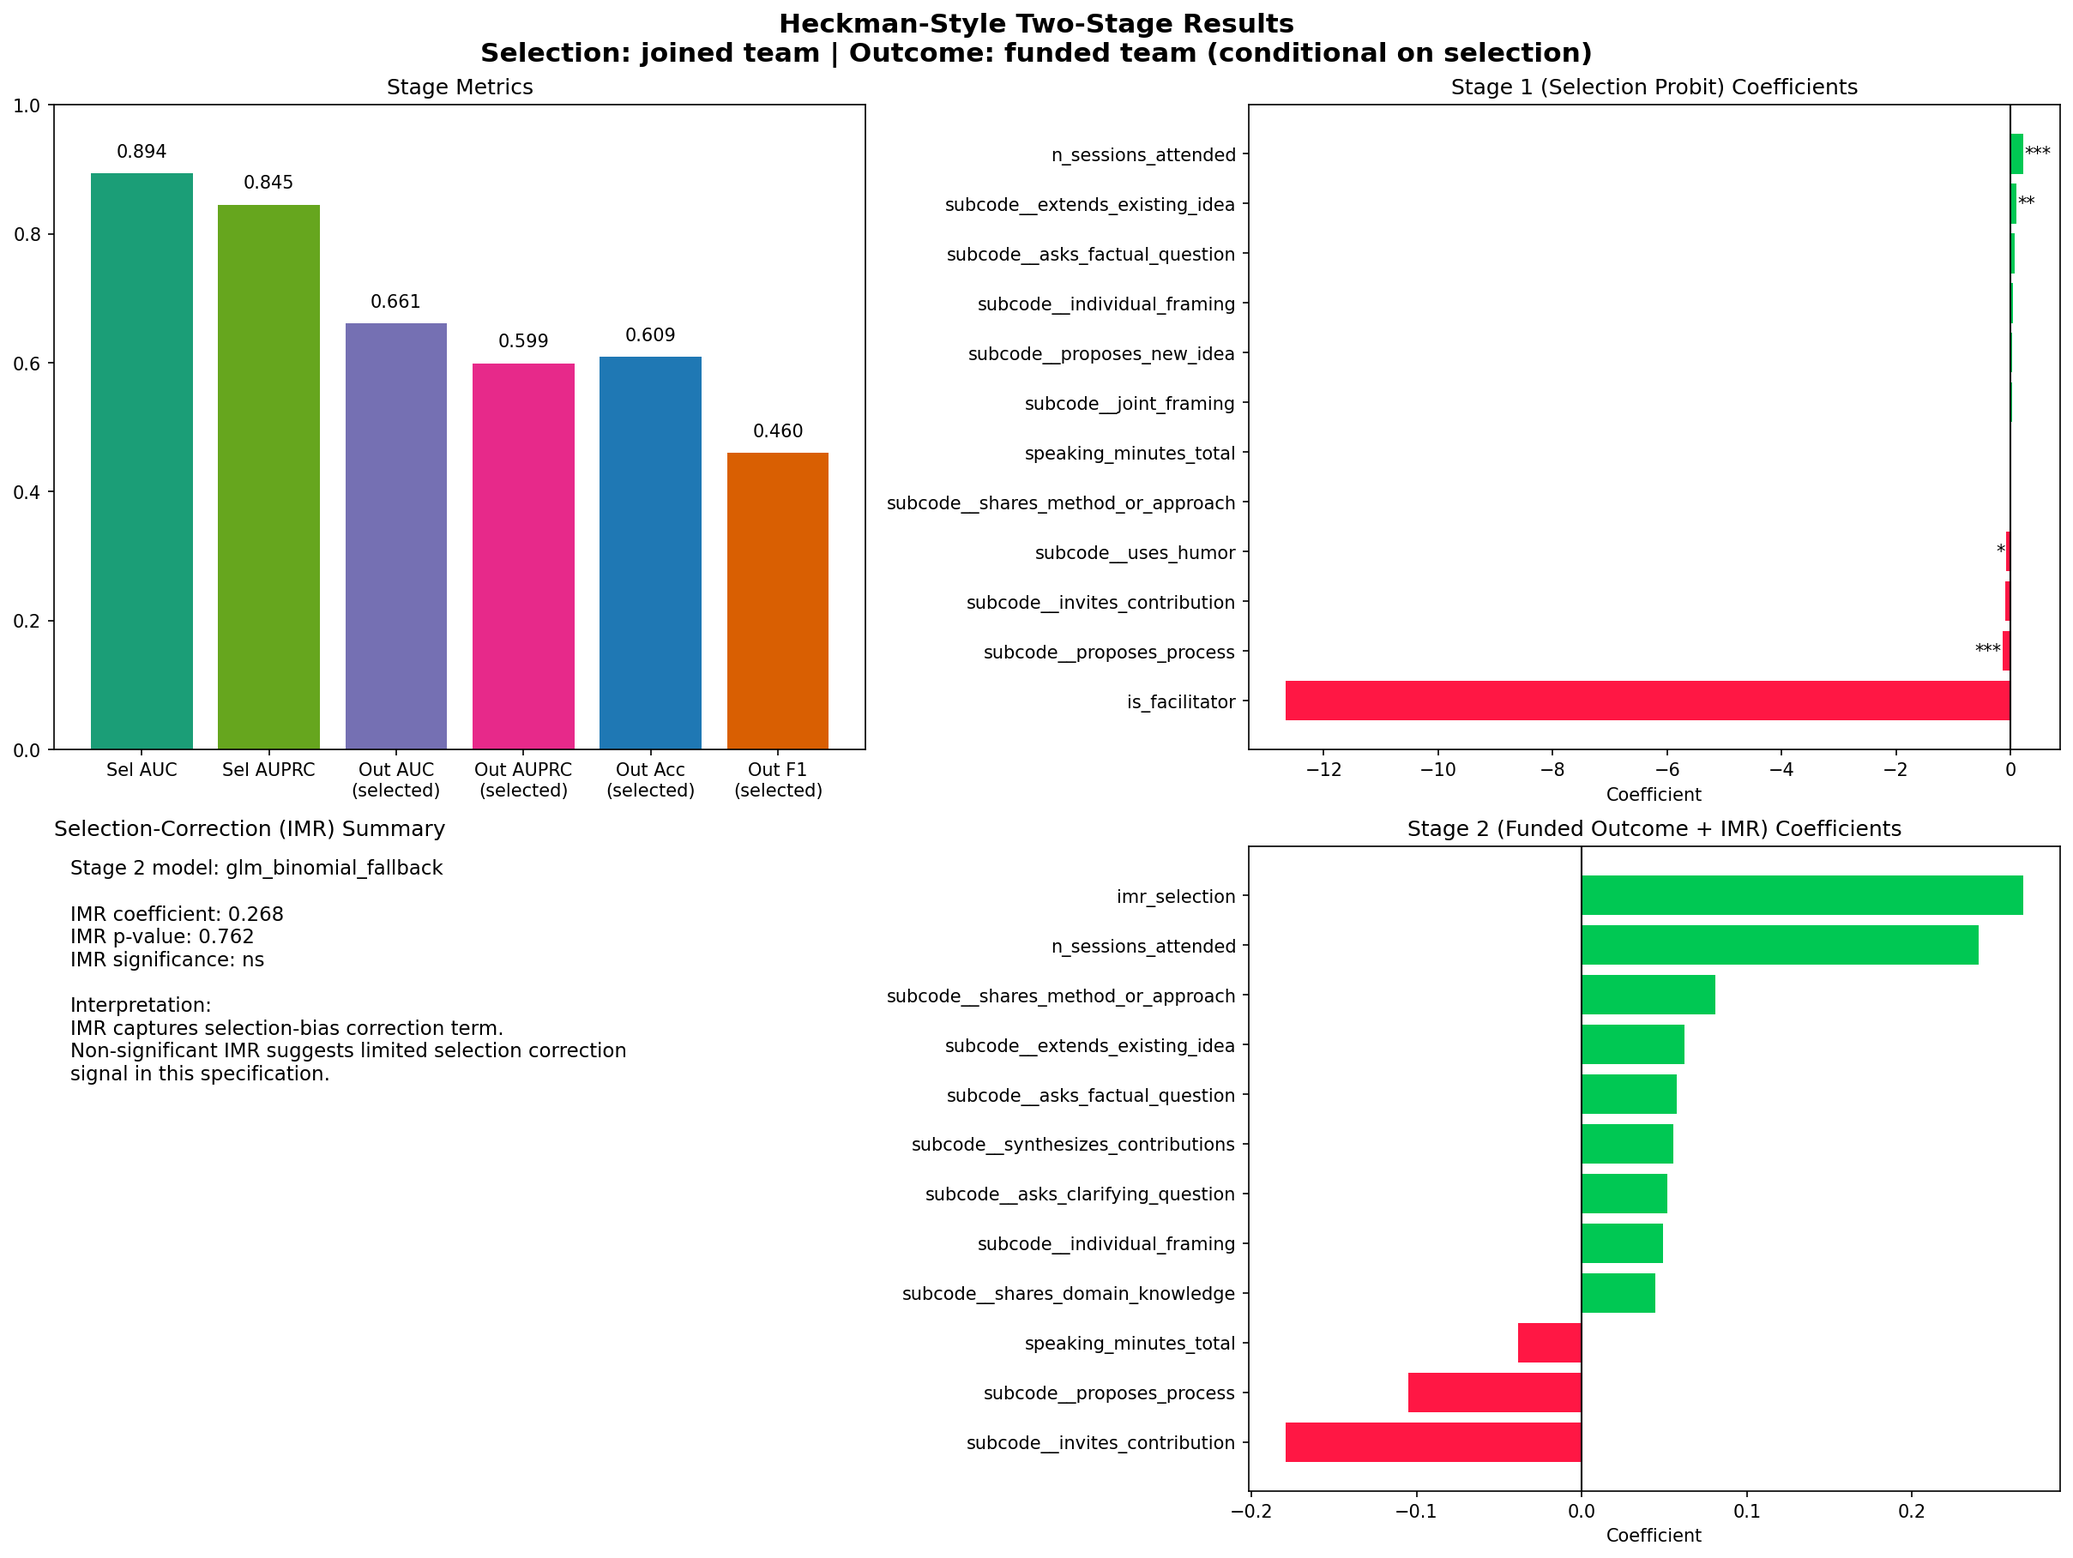
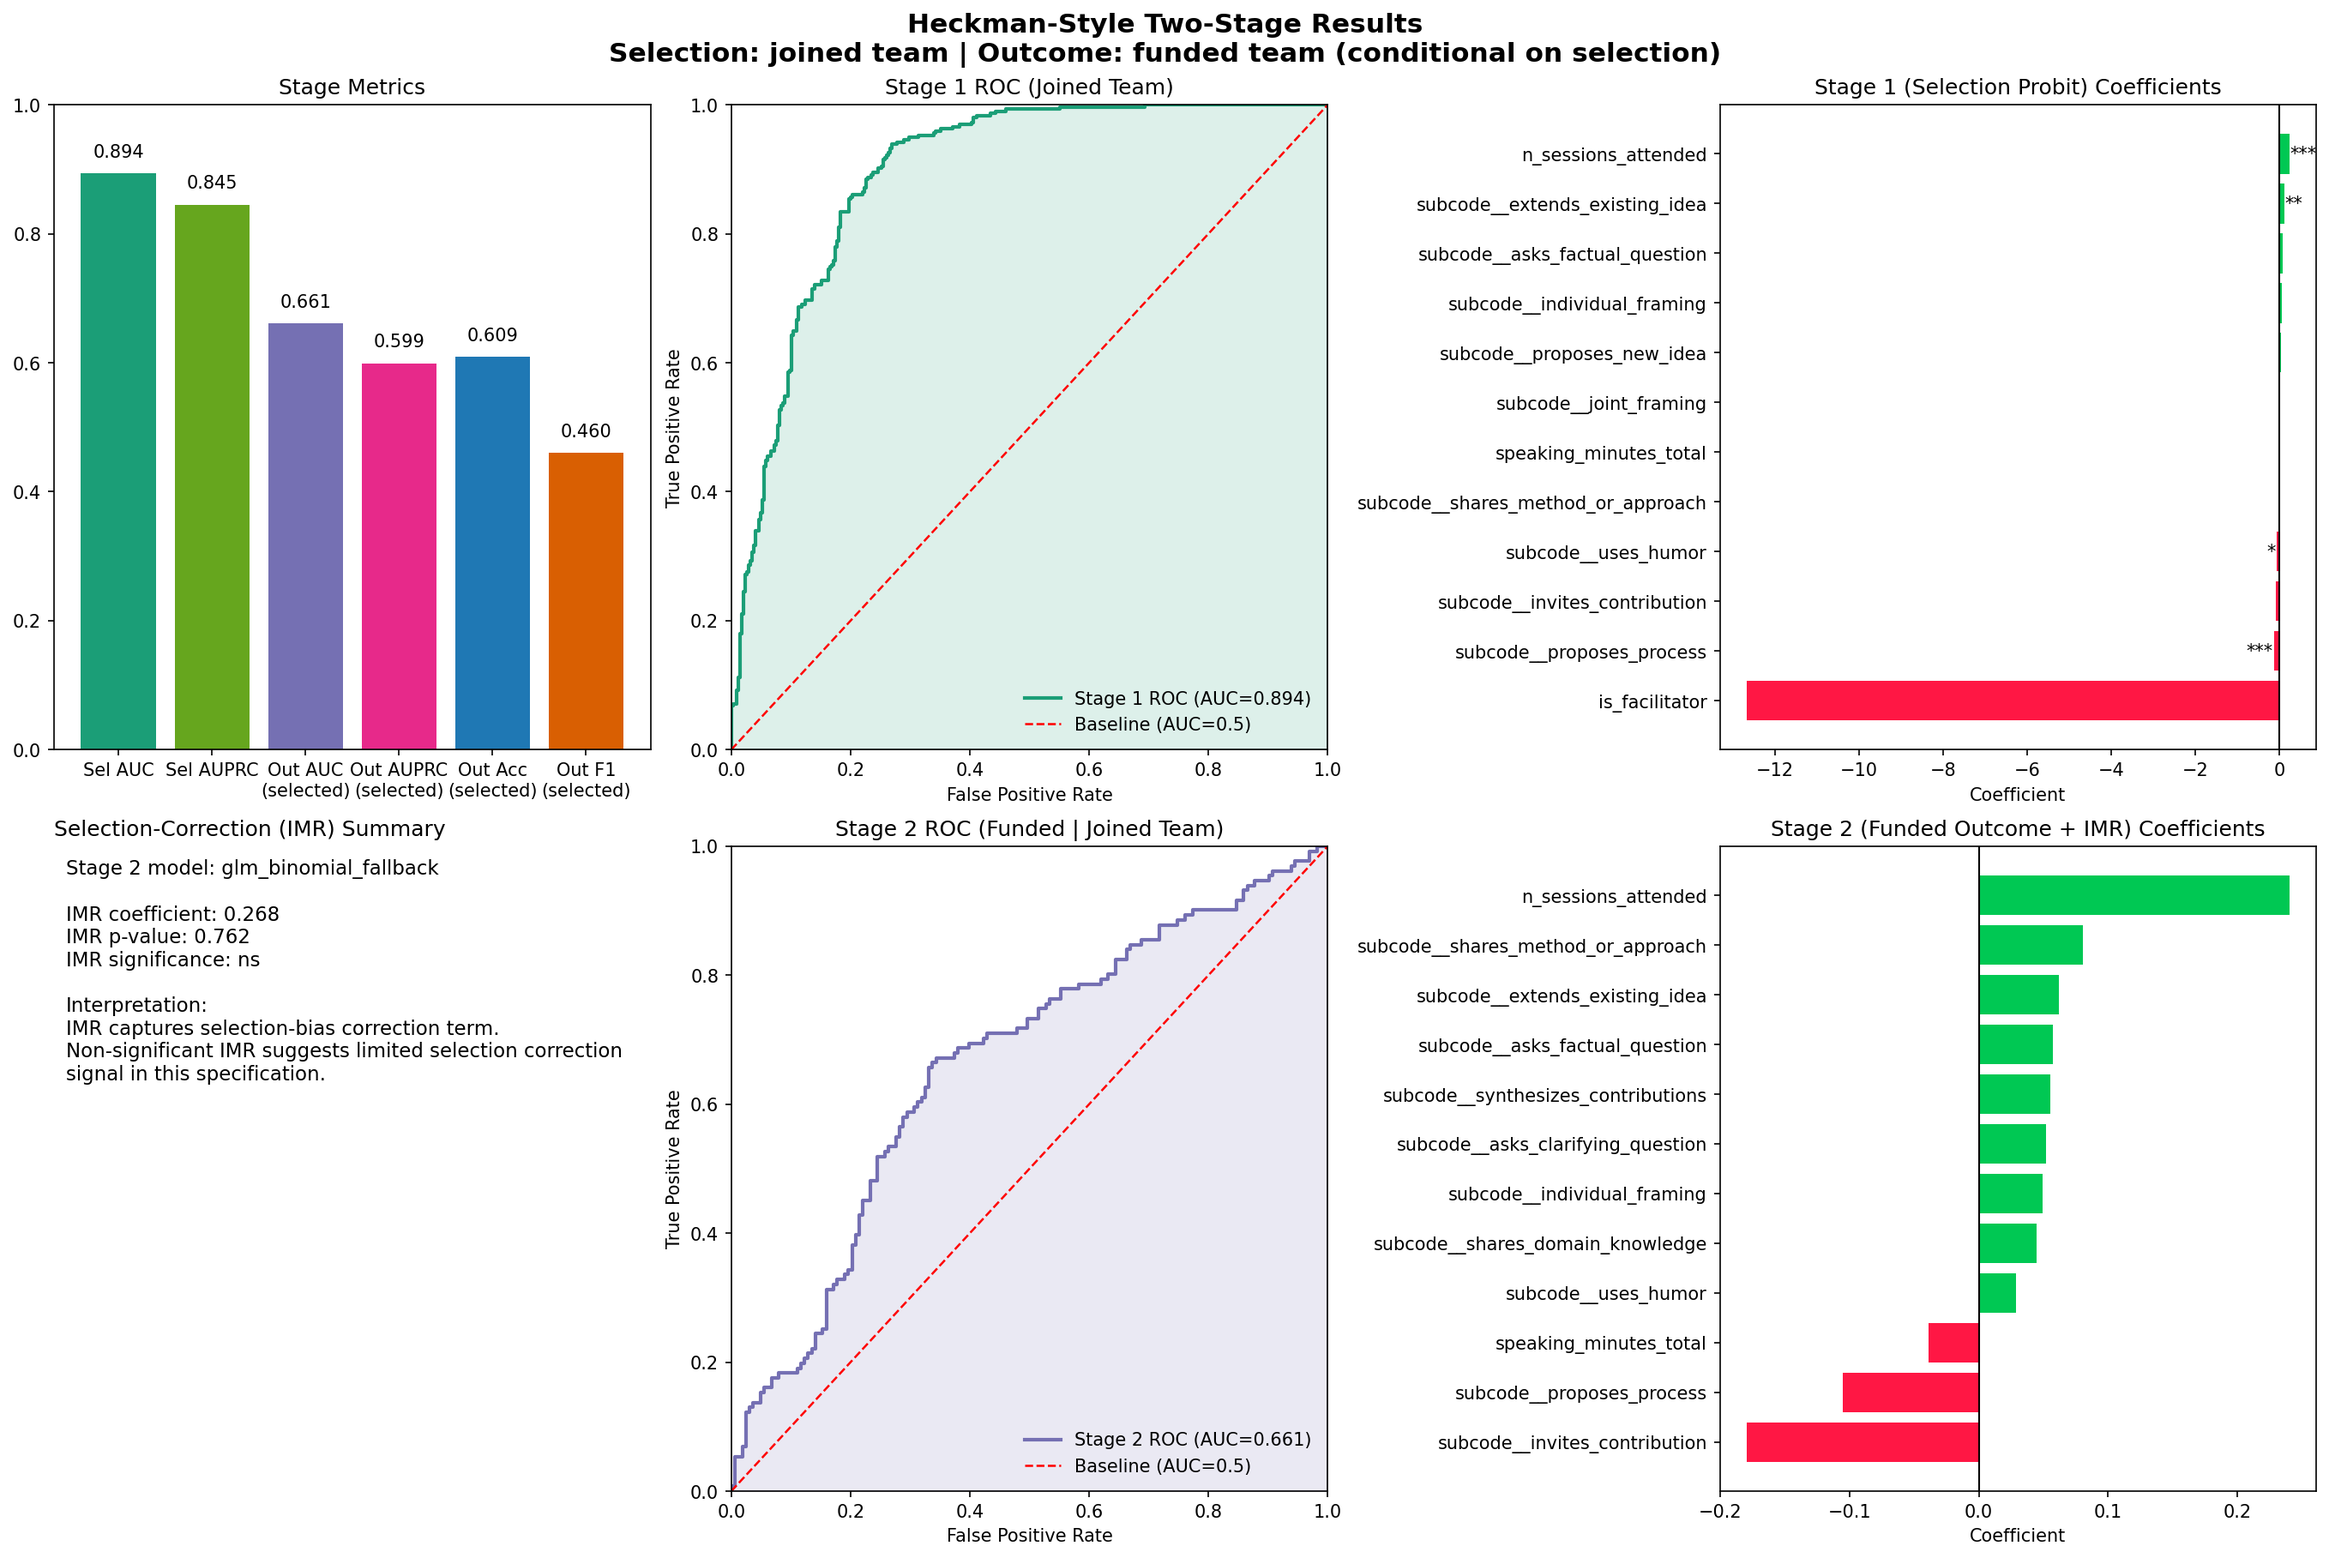
Add Heckman two-stage analysis outputs and visualization with stage ROC panels

diff --git a/analysis_v2/src/person_visualizations.py b/analysis_v2/src/person_visualizations.py
@@ -827,12 +827,14 @@ print("Saved Heckman stage-2 coefficients:", stage2_out)
 heckman_fig_out = FIG_DIR / "person_model_heckman_two_stage_results.png"
 if not heckman_summary_df.empty:
     row = heckman_summary_df.iloc[0]
-    fig = plt.figure(figsize=(16, 12), constrained_layout=True)
-    gs = fig.add_gridspec(2, 2)
+    fig = plt.figure(figsize=(18, 12), constrained_layout=True)
+    gs = fig.add_gridspec(2, 3)
     ax1 = fig.add_subplot(gs[0, 0])
     ax2 = fig.add_subplot(gs[0, 1])
-    ax3 = fig.add_subplot(gs[1, 0])
-    ax4 = fig.add_subplot(gs[1, 1])
+    ax3 = fig.add_subplot(gs[0, 2])
+    ax4 = fig.add_subplot(gs[1, 0])
+    ax5 = fig.add_subplot(gs[1, 1])
+    ax6 = fig.add_subplot(gs[1, 2])
 
     fig.suptitle(
         "Heckman-Style Two-Stage Results\nSelection: joined team | Outcome: funded team (conditional on selection)",
@@ -864,20 +866,37 @@ if not heckman_summary_df.empty:
         if pd.notna(v):
             ax1.text(i, v + 0.02, f"{v:.3f}", ha="center", va="bottom", fontsize=10)
 
-    # Panel B: stage-1 coefficients
+    # Panel B: stage-1 ROC
+    x_sel_raw = df[selection_features].copy().fillna(df[selection_features].median(numeric_only=True))
+    x_sel = sm.add_constant(x_sel_raw, has_constant="add")
+    y_sel = df["outcome_joined_team"].astype(int).values
+    p_sel = np.clip(np.asarray(sel_fit.predict(x_sel), dtype=float), 1e-8, 1 - 1e-8)
+    if len(np.unique(y_sel)) >= 2:
+        fpr1, tpr1, _ = roc_curve(y_sel, p_sel)
+        ax2.plot(fpr1, tpr1, color="#1b9e77", lw=2, label=f"Stage 1 ROC (AUC={row.get('selection_auc', np.nan):.3f})")
+        ax2.fill_between(fpr1, tpr1, alpha=0.15, color="#1b9e77")
+    ax2.plot([0, 1], [0, 1], color="red", linestyle="--", lw=1.2, label="Baseline (AUC=0.5)")
+    ax2.set_xlim(0, 1)
+    ax2.set_ylim(0, 1)
+    ax2.set_xlabel("False Positive Rate")
+    ax2.set_ylabel("True Positive Rate")
+    ax2.set_title("Stage 1 ROC (Joined Team)")
+    ax2.legend(loc="lower right", frameon=False)
+
+    # Panel C: stage-1 coefficients
     s1 = stage1_coef_df[stage1_coef_df["feature"] != "const"].copy()
     s1 = s1.sort_values("abs_coef", ascending=False).head(12).sort_values("coef")
     colors1 = ["#00c853" if c >= 0 else "#ff1744" for c in s1["coef"]]
-    ax2.barh(s1["feature"], s1["coef"], color=colors1)
-    ax2.axvline(0, color="black", lw=1)
-    ax2.set_title("Stage 1 (Selection Probit) Coefficients")
-    ax2.set_xlabel("Coefficient")
+    ax3.barh(s1["feature"], s1["coef"], color=colors1)
+    ax3.axvline(0, color="black", lw=1)
+    ax3.set_title("Stage 1 (Selection Probit) Coefficients")
+    ax3.set_xlabel("Coefficient")
     for yi, (_, r) in enumerate(s1.reset_index(drop=True).iterrows()):
         x = r["coef"] + (0.02 if r["coef"] >= 0 else -0.02)
         ha = "left" if r["coef"] >= 0 else "right"
-        ax2.text(x, yi, p_to_stars(r["pvalue"]), va="center", ha=ha, fontsize=10)
+        ax3.text(x, yi, p_to_stars(r["pvalue"]), va="center", ha=ha, fontsize=10)
 
-    # Panel C: IMR summary
+    # Panel D: IMR summary
     imr_coef = row.get("imr_coef_stage2", np.nan)
     imr_p = row.get("imr_pvalue_stage2", np.nan)
     stars = row.get("imr_significance", "")
@@ -892,22 +911,46 @@ if not heckman_summary_df.empty:
         "Non-significant IMR suggests limited selection correction\n"
         "signal in this specification."
     )
-    ax3.axis("off")
-    ax3.text(0.02, 0.98, txt, va="top", ha="left", fontsize=11)
-    ax3.set_title("Selection-Correction (IMR) Summary", loc="left")
+    ax4.axis("off")
+    ax4.text(0.02, 0.98, txt, va="top", ha="left", fontsize=11)
+    ax4.set_title("Selection-Correction (IMR) Summary", loc="left")
 
-    # Panel D: stage-2 coefficients
-    s2 = stage2_coef_df[stage2_coef_df["feature"] != "const"].copy()
+    # Panel E: stage-2 ROC
+    xb_plot = np.clip(np.asarray(sel_fit.predict(x_sel, which="linear"), dtype=float), -8.0, 8.0)
+    phi_plot = norm.pdf(xb_plot)
+    Phi_plot = np.clip(norm.cdf(xb_plot), 1e-8, 1 - 1e-8)
+    work_plot = df.copy()
+    work_plot["imr_selection"] = phi_plot / Phi_plot
+    obs = work_plot[work_plot["outcome_joined_team"] == 1].copy()
+    x_out_raw = obs[outcome_features + ["imr_selection"]].copy()
+    x_out_raw = x_out_raw.fillna(x_out_raw.median(numeric_only=True))
+    x_out = sm.add_constant(x_out_raw, has_constant="add")
+    y_out = obs["outcome_joined_funded_team"].astype(int).values
+    p_out = np.clip(np.asarray(out_fit.predict(x_out), dtype=float), 1e-8, 1 - 1e-8)
+    if len(np.unique(y_out)) >= 2:
+        fpr2, tpr2, _ = roc_curve(y_out, p_out)
+        ax5.plot(fpr2, tpr2, color="#7570b3", lw=2, label=f"Stage 2 ROC (AUC={row.get('outcome_auc_selected_only', np.nan):.3f})")
+        ax5.fill_between(fpr2, tpr2, alpha=0.15, color="#7570b3")
+    ax5.plot([0, 1], [0, 1], color="red", linestyle="--", lw=1.2, label="Baseline (AUC=0.5)")
+    ax5.set_xlim(0, 1)
+    ax5.set_ylim(0, 1)
+    ax5.set_xlabel("False Positive Rate")
+    ax5.set_ylabel("True Positive Rate")
+    ax5.set_title("Stage 2 ROC (Funded | Joined Team)")
+    ax5.legend(loc="lower right", frameon=False)
+
+    # Panel F: stage-2 coefficients
+    s2 = stage2_coef_df[~stage2_coef_df["feature"].isin(["const", "imr_selection"])].copy()
     s2 = s2.sort_values("abs_coef", ascending=False).head(12).sort_values("coef")
     colors2 = ["#00c853" if c >= 0 else "#ff1744" for c in s2["coef"]]
-    ax4.barh(s2["feature"], s2["coef"], color=colors2)
-    ax4.axvline(0, color="black", lw=1)
-    ax4.set_title("Stage 2 (Funded Outcome + IMR) Coefficients")
-    ax4.set_xlabel("Coefficient")
+    ax6.barh(s2["feature"], s2["coef"], color=colors2)
+    ax6.axvline(0, color="black", lw=1)
+    ax6.set_title("Stage 2 (Funded Outcome + IMR) Coefficients")
+    ax6.set_xlabel("Coefficient")
     for yi, (_, r) in enumerate(s2.reset_index(drop=True).iterrows()):
         x = r["coef"] + (0.02 if r["coef"] >= 0 else -0.02)
         ha = "left" if r["coef"] >= 0 else "right"
-        ax4.text(x, yi, p_to_stars(r["pvalue"]), va="center", ha=ha, fontsize=10)
+        ax6.text(x, yi, p_to_stars(r["pvalue"]), va="center", ha=ha, fontsize=10)
 
     fig.savefig(heckman_fig_out, dpi=150, bbox_inches="tight")
     plt.close(fig)
